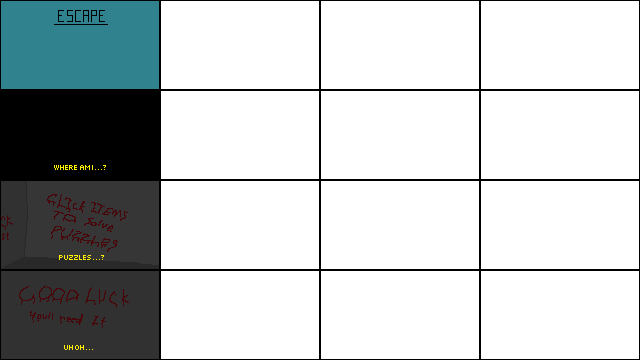
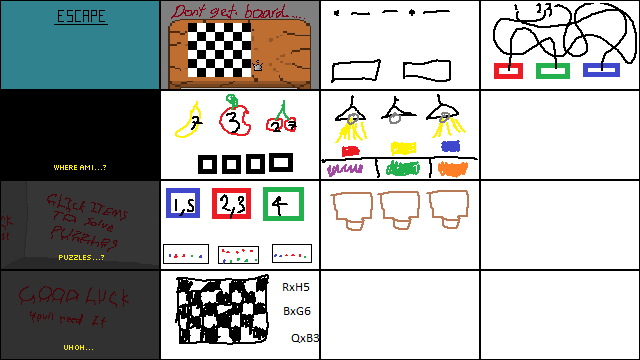
Added proto puzzle 1

diff --git a/gameMenu.h b/gameMenu.h
@@ -15,44 +15,49 @@ class GameMenu: public Room{
         // variables used for delaying commands
         Clock clock;
         Time time;
+        bool loop;
     public:
         // constructor for the menu
         GameMenu(RenderWindow* win) {
             // creates three buttons at a fixed position and name
             button = new Button[3];
             for (int i = 0; i < 3; i++) {
-                button[i].setPosition(win,(3-i));
+                button[i].setPosition(win,0,(3-i));
             }
             button[2].setText("Start Game");
             button[1].setText("Load Game");
             button[0].setText("Quit Game");
             store = win; // stores a local copy of the window pointer
             active = true; // sets the room to be true
+            loop = true;
         }
 
         // draws the background and the buttons
         void draw(RenderWindow* win) {
-            if (active) {
-                // draws buttons and menu background
-                win->draw(*background);
-                for (int i = 0; i < 3; i++){
-                    button[i].draw(win);
+            if (loop) {
+                if (active) {
+                    // draws buttons and menu background
+                    win->draw(*background);
+                    for (int i = 0; i < 3; i++){
+                        button[i].draw(win);
+                    }
+                    time = clock.restart(); // keeps the clock at 0
+                } else if (!active) {
+                    time = clock.getElapsedTime(); // grabs the time elapsed since starting
+                    // switches between the three intro sequence, 5 seconds for each image
+                    if (time.asSeconds() > 2 && time.asSeconds() < 7) {
+                        setRoom(0,90);
+                        win->draw(*background);
+                    } else if (time.asSeconds() > 2 && time.asSeconds() < 12) {
+                        setRoom(0,180);
+                        win->draw(*background);
+                    } else if (time.asSeconds() > 2 && time.asSeconds() < 17) {
+                        setRoom(0,270);
+                        win->draw(*background);
+                    } else if (time.asSeconds() >= 17) {
+                        loop = false;
+                    }
                 }
-                time = clock.restart(); // keeps the clock at 0
-            } else if (!active) {
-                time = clock.getElapsedTime(); // grabs the time elapsed since starting
-                // switches between the three intro sequence, 5 seconds for each image
-                if (time.asSeconds() > 2 && time.asSeconds() < 7) {
-                    setRoom(0,90);
-                    win->draw(*background);
-                } else if (time.asSeconds() > 2 && time.asSeconds() < 12) {
-                    setRoom(0,180);
-                    win->draw(*background);
-                } else if (time.asSeconds() > 2 && time.asSeconds() < 17) {
-                    setRoom(0,270);
-                    win->draw(*background);
-                }
-            
             }
             
         }
@@ -81,6 +86,10 @@ class GameMenu: public Room{
                     }
                 }
             }
+        }
+
+        bool getStatus () {
+            return loop;
         }
 
         ~GameMenu() {

diff --git a/clickTest.h b/clickTest.h
@@ -8,6 +8,7 @@
 #include "cursor.h"
 #include "button.h"
 #include "gameMenu.h"
+#include "ChessPuzzle.h"
 
 using namespace sf;
 
@@ -17,7 +18,8 @@ class ClickTest: public Game {
         // pointers to the window, cursor and rooms
         RenderWindow* win;
         Mouse_Cursor* cursor;
-        GameMenu* menu;
+        Room** rooms;
+        int roomCount;
     public:
         // constructor for the game
         ClickTest(int size1, int size2, std::string title) {
@@ -28,20 +30,39 @@ class ClickTest: public Game {
             win->setFramerateLimit(60);
 
             // initialises the rooms and cursor
+            roomCount = 2;
+            rooms = new Room*[roomCount];
+            rooms[0] = new GameMenu(win);
+            rooms[1] = new ChessPuzzle(win);
             cursor = new Mouse_Cursor(win);
-            menu = new GameMenu(win);
         }
 
         // draws all currently active sprites
-        void draw_frame () {
-            menu->draw(win);
+        void drawFrame () {
+            rooms[checkActive()]->draw(win);
             cursor->draw(win);
             
         }
 
+        int checkActive () {
+            for (int i = 0; i < roomCount; i++) {
+                if (rooms[i]->getStatus()) {
+                    std::cout << "active room " << i << std::endl;
+                    return i;
+                } else if (!rooms[i]->getStatus()) {
+                    rooms[i+1]->setActive();
+                    std::cout << "active room " << i+1 << std::endl;
+                    return i+1;
+                }
+            }
+            return 0;
+        }
+
         // checks for the collision of the cursor with buttons or items
         void checkCollision (Mouse_Cursor*, Event e) {
-            menu->buttonPress(cursor, e);
+            for (int i = 0; i < roomCount; i++) {
+                rooms[i]->buttonPress(cursor, e);
+            }
         }
 
         // runs the program
@@ -64,7 +85,7 @@ class ClickTest: public Game {
                 // makes sure everything is being drawn
                 win->clear();
                 cursor->move(win);
-                draw_frame();
+                drawFrame();
                 win->display();
             }
         }
@@ -72,7 +93,9 @@ class ClickTest: public Game {
         // deletes any pointers
         ~ClickTest() {
             delete cursor;
-            delete menu;
+            for (int i = 0; i < 2; i++) {
+                delete rooms[i];
+            } delete [] rooms;
         }
 };
 

diff --git a/ChessPuzzle.h b/ChessPuzzle.h
@@ -1,0 +1,68 @@
+#ifndef CHESSPUZZLE_H
+#define CHESSPUZZLE_H
+
+#include "room.h"
+#include "roomArrow.h"
+#include "cursor.h"
+#include "gameMenu.h"
+
+// first room puzzle
+class ChessPuzzle: public Room {
+    private:
+        RenderWindow* store;
+        RoomArrow* buttons;
+        bool mainWall;
+    public:
+        // constructor
+        ChessPuzzle(RenderWindow* win) {
+            buttons = new RoomArrow[2];
+            buttons[0].setPosition(win,1500,0);
+            buttons[1].setPosition(win,100,0);
+            buttons[1].flipButton();
+            setRoom(160,0);
+            active = false;
+            store = win;
+            bool mainWall = true;
+        }
+        // draws the room and items
+        void draw(RenderWindow* win) {
+            if (active) {
+                win->draw(*background);
+                if (mainWall) {
+                    buttons[0].draw(win);
+                } else if (!mainWall) {
+                    buttons[1].draw(win);
+                }
+            }
+        }
+        
+        // handles button presses
+        void buttonPress(Mouse_Cursor* cursor, Event e) {
+            if (buttons[0].highlightSprite(cursor->getSprite()) && active && mainWall) {
+                if (e.type == Event::MouseButtonPressed) {
+                    // moves to new screen
+                    if (e.mouseButton.button == Mouse::Left) {
+                        setRoom(160,90);
+                        mainWall = false;
+                    }   
+                }
+            } else if (buttons[1].highlightSprite(cursor->getSprite()) && active && !mainWall) {
+                if (e.type == Event::MouseButtonPressed) {
+                    // moves back to original
+                    if (e.mouseButton.button == Mouse::Left) {
+                        setRoom(160,0);
+                        mainWall = true;
+                    }   
+                }
+            } 
+        }
+        
+        // returns the state of the room
+        bool getStatus() {
+            return active;
+        }
+
+        ~ChessPuzzle() {}
+};
+
+#endif

diff --git a/roomArrow.h b/roomArrow.h
@@ -1,0 +1,51 @@
+#ifndef ROOMARROW_H
+#define ROOMARROW_H
+
+#include "button.h"
+
+class RoomArrow: public Button {
+    private:
+
+    public:
+        RoomArrow() {
+            // determines the size of each button
+            source.height = 20;
+            source.width = 12;
+            
+            // creates the sprite and sets the scale
+            body = new Sprite();
+            body->setTexture(texture);
+            body->setTextureRect(source);
+            setTexture(200,0);
+            body->setOrigin(6,10);
+            body->setScale(9,9);
+        }
+        
+        // sets the position of the text and button
+        void setPosition(RenderWindow* win, int x, int y) {
+            body->setPosition(x,(win->getSize().y)/2);
+        }
+
+        // draws the button
+        void draw (RenderWindow* win) {
+            win->draw(*body);
+        }
+
+        // flips the button
+        void flipButton() {
+            body->setScale(-9,9);
+        }
+
+        // checks if the mouse is currently hovering over the button
+        bool highlightSprite(Sprite* sprite) {
+            if (sprite->getGlobalBounds().intersects(body->getGlobalBounds())) {
+                setTexture(200,20);
+                return true;
+            } else {
+                setTexture(200,0);
+                return false;
+            }           
+        }
+};
+
+#endif

diff --git a/button.h b/button.h
@@ -65,24 +65,22 @@ class Button: public GameEntity {
         }
 
         // sets the position of the text and button
-        void setPosition(RenderWindow* win, int yPos) {
-            body->setPosition((win->getSize().x)/2,(yPos+3)*100);
-            title.setPosition((win->getSize().x)/2,((yPos+3)*100)-10);
+        void setPosition(RenderWindow* win, int x, int y) {
+            x = (win->getSize().x)/2;
+            body->setPosition(x,(y+3)*100);
+            title.setPosition(x,((y+3)*100)-10);
         }
 
         // renders different textures based on if the cursor is hovering over the sprite
         bool highlightSprite(Sprite* sprite) {
             if (sprite->getGlobalBounds().intersects(body->getGlobalBounds())) {
-                source.top = 20;
-                body->setTextureRect(source);
+                setTexture(0,20);
                 return true;
             } else {
-                source.top = 0;
-                body->setTextureRect(source);
+                setTexture(0,0);
                 return false;
             }           
         }
-
         ~Button() {}
 };
 

diff --git a/room.h b/room.h
@@ -51,14 +51,20 @@ class Room{
         }
 
         // checks if a room is active or not
-        bool getStatus () {
+        virtual bool getStatus () {
             return active;
         }
 
-        // function for each room to draw to window
-        virtual void draw(RenderWindow* win) {
-            win->draw(*background);
+        // sets as active
+        void setActive () {
+            active = true;
         }
+
+        // function for each room to draw to window
+        virtual void draw(RenderWindow* win) {};
+
+        // handles pressing items and buttons
+        virtual void buttonPress(Mouse_Cursor* cursor, Event e) {};
 
         // destructor
         ~Room () {

diff --git a/gameItem.h b/gameItem.h
@@ -19,6 +19,15 @@ class GameEntity {
         virtual void draw(RenderWindow* win) {
             win->draw(*body);
         }
+
+        void setTexture(int x, int y) {
+            source.top = y;
+            source.left = x;
+            body->setTextureRect(source);
+        }
+
+        virtual void setPosition(RenderWindow* win, int x, int y) = 0;
+
         virtual bool highlightSprite(Sprite* sprite) = 0;
         ~GameEntity() {
             delete body;
